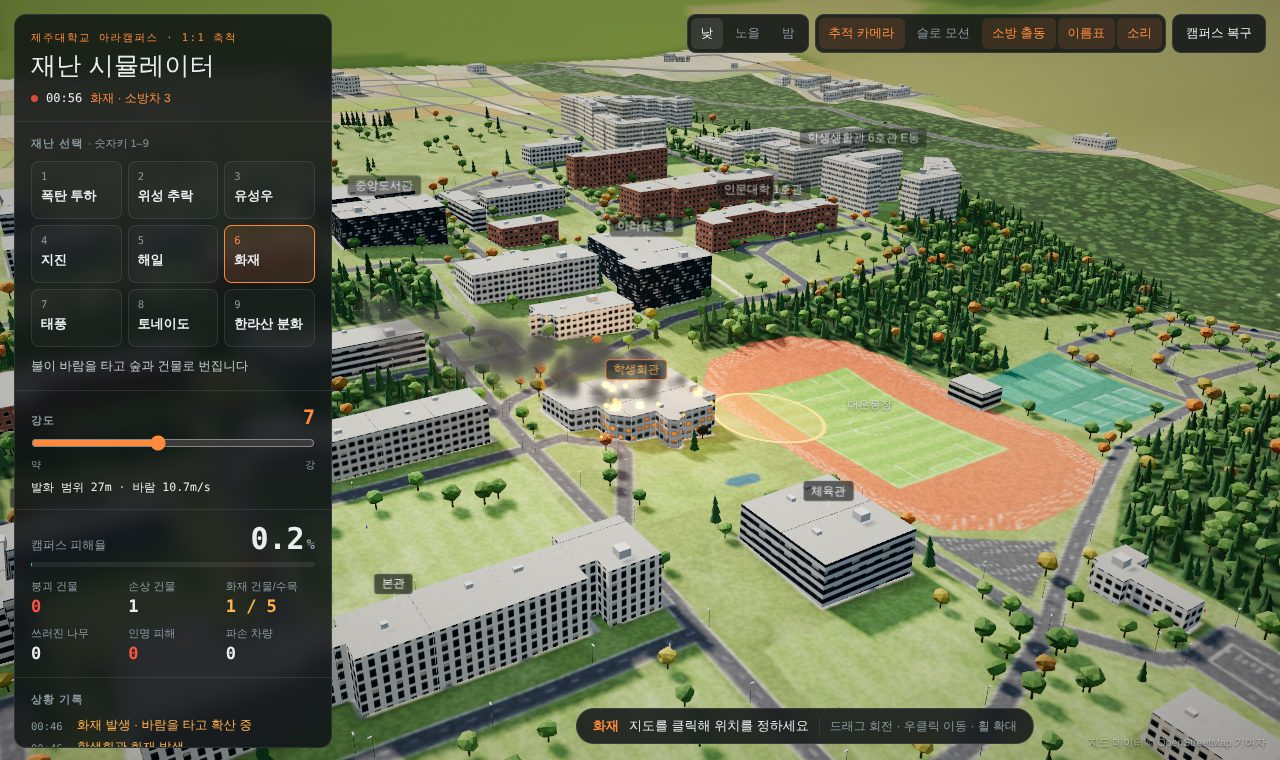
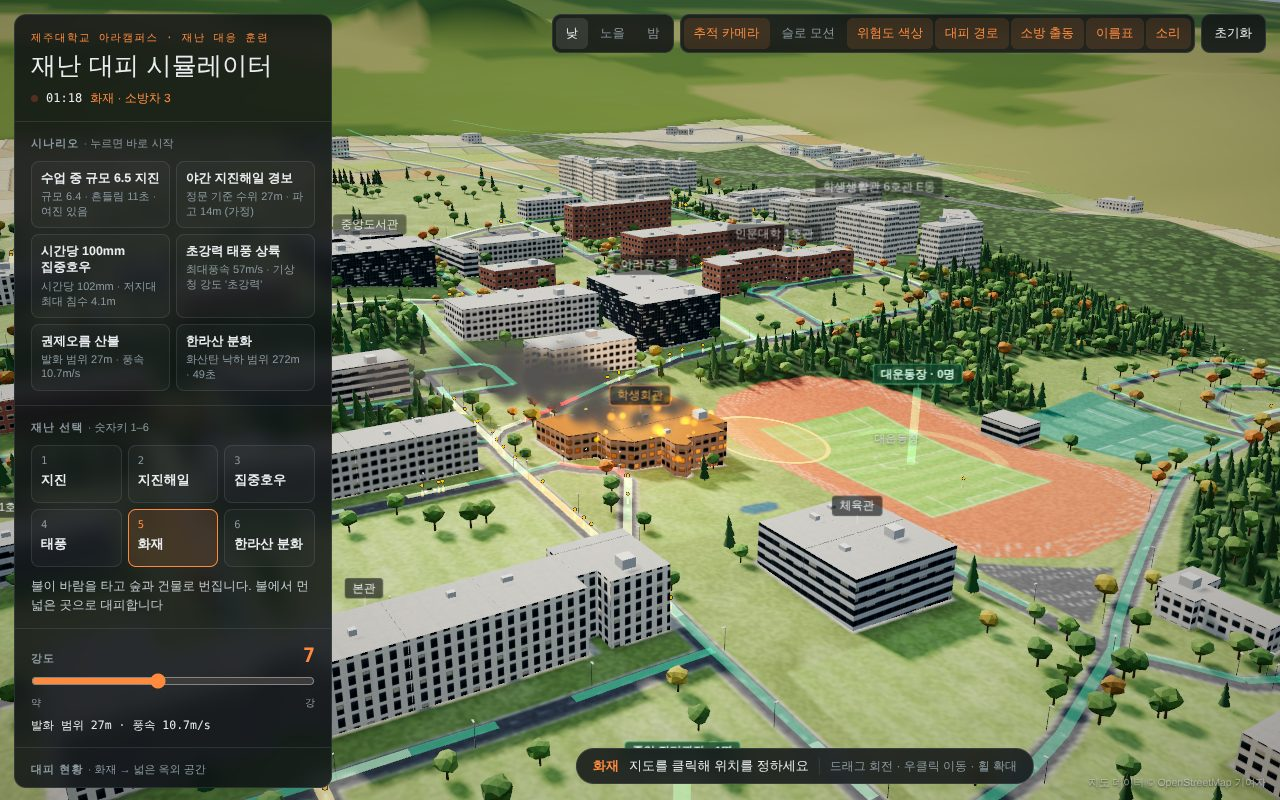
test: 대피 시뮬레이터 기준으로 브라우저 테스트와 스크린샷 갱신
재난 대피 기능이 실제 브라우저에서 동작하는지 자동으로 확인하고,
README용 화면을 새로 찍는다.

- 재난 6종마다 시작 로그, 대피 방식(옥외·고지대·실내), 이동·도착 인원과
  위험 건물(지진)·침수 구역(해일·호우)·화재 구역(화재)을 검사
- 지진·태풍은 도착한 사람이 모두 맞는 종류의 대피소에 있는지 확인
- 대피소를 하나(학생회관)만 남기면 모두 그곳으로만 가는지 확인
- 실행 기록표에 결과가 쌓이는지, 시나리오 버튼(야간 지진해일)이
  재난·시간대·대피 방식·행동요령을 함께 바꾸는지 확인
- 초기화 후 위험도·화재·대피 상태가 모두 원래대로 돌아오는지 확인
- 스크린샷: 전경과 재난 6종 (예전 폭탄·위성·유성우·토네이도 화면 삭제)

결과: 14/14 통과 (파일로 직접 열고 네트워크를 차단한 상태)

diff --git a/TODO.md b/TODO.md
@@ -24,5 +24,5 @@
 - [x] 15. 보행 경로 그래프와 대피 경로 탐색
 - [x] 16. 대피 시뮬레이션과 결과 지표
 - [x] 17. 시나리오·행동요령 카드·실행 기록 UI
-- [ ] 18. 브라우저 동작 테스트·스크린샷 갱신
+- [x] 18. 브라우저 동작 테스트·스크린샷 갱신
 - [ ] 19. SKILL.md·README 갱신과 최종 검증
